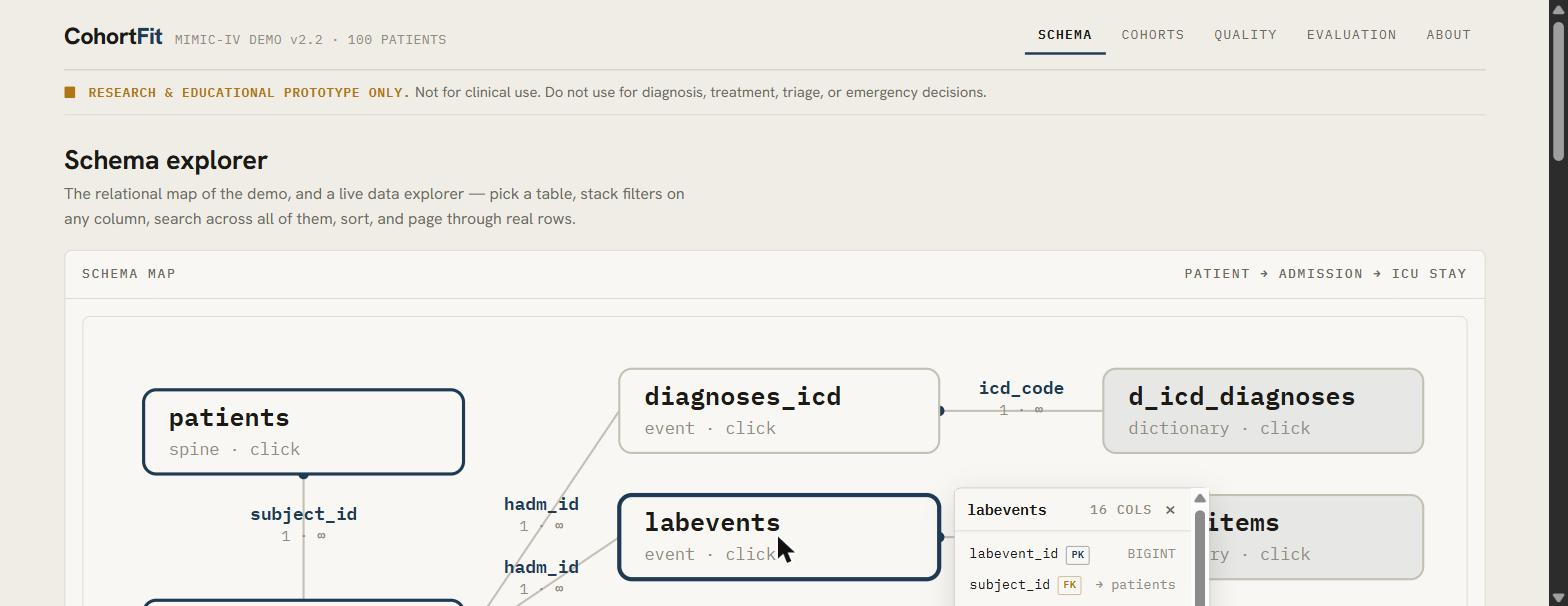
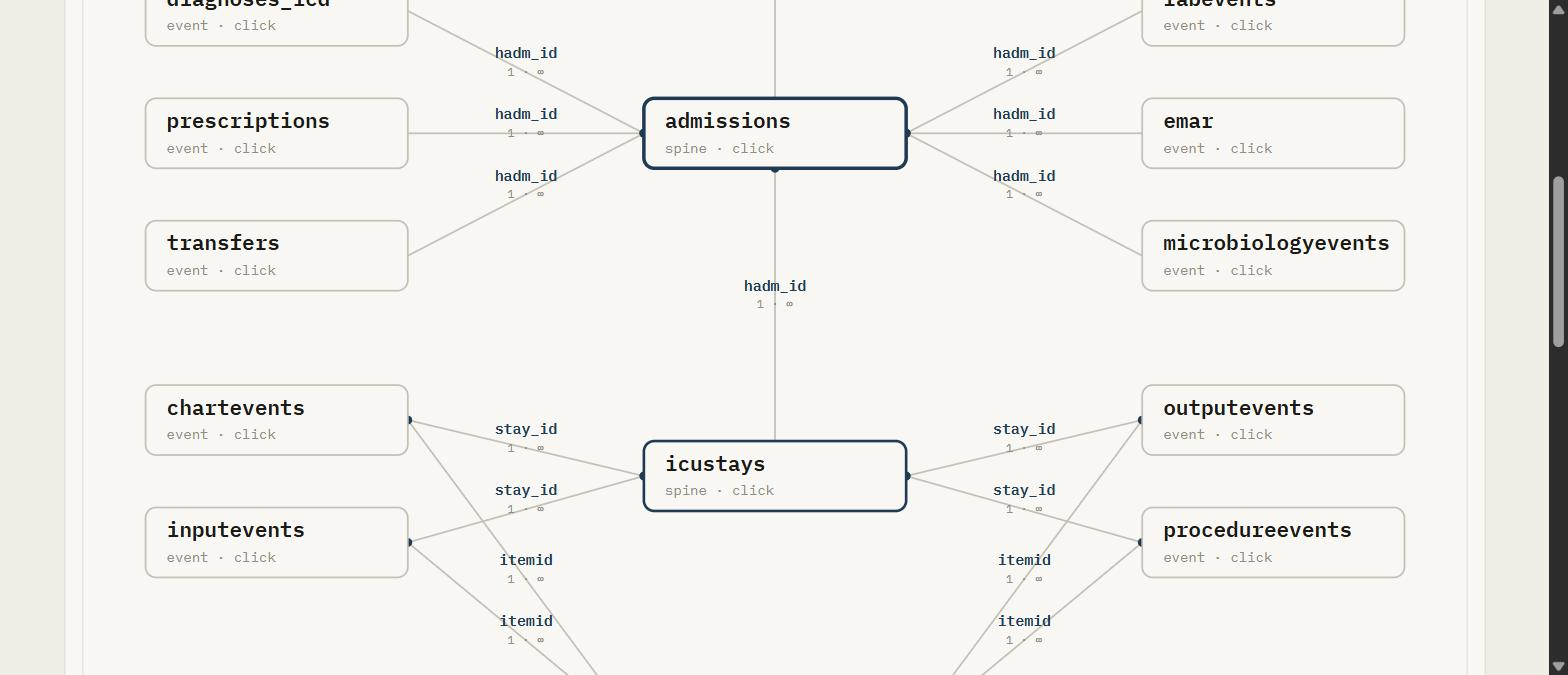
Schema map: star layout — patients/admissions/icustays centred, all FK edges attached
- radial layout: admissions is the central hub (hadm_id fans to diagnoses/prescriptions/
  transfers/labevents/emar/microbiologyevents), icustays the ICU hub (stay_id to
  chart/input/output/procedure events), dictionaries at the edges (icd_code/itemid)
- added the previously-missing FK edges (all ICU events -> d_items via itemid; more hosp events)
- edgePath now connects nearest sides by dominant direction; popover opens leftward for
  right-side boxes. Less clutter, every relationship visible
- verified in-browser (docs/ui-screenshots/app-schema-erd.jpg)

diff --git a/frontend/app/schema/Erd.tsx b/frontend/app/schema/Erd.tsx
@@ -11,49 +11,71 @@ type Edge = { from: string; to: string; col: string };
 export type ColumnInfo = { name: string; type: string };
 export type TableKeys = { pk: string[]; fk: { col: string; ref: string }[] };
 
-const VW = 648;
-const VH = 512;
-const W = 152;
+const VW = 780;
+const VH = 640;
+const W = 150;
 const H = 40;
 
+// Star layout: patients → admissions → icustays down the centre; hospital events fan
+// out from admissions, ICU events from icustays, dictionaries at the edges.
 const BOXES: Box[] = [
-  { id: "patients", label: "patients", x: 24, y: 30, kind: "spine" },
-  { id: "admissions", label: "admissions", x: 24, y: 130, kind: "spine" },
-  { id: "icustays", label: "icustays", x: 24, y: 300, kind: "spine" },
-  { id: "diagnoses_icd", label: "diagnoses_icd", x: 250, y: 20, kind: "fact" },
-  { id: "labevents", label: "labevents", x: 250, y: 80, kind: "fact" },
-  { id: "prescriptions", label: "prescriptions", x: 250, y: 140, kind: "fact" },
-  { id: "emar", label: "emar", x: 250, y: 200, kind: "fact" },
-  { id: "transfers", label: "transfers", x: 250, y: 260, kind: "fact" },
-  { id: "chartevents", label: "chartevents", x: 250, y: 330, kind: "fact" },
-  { id: "inputevents", label: "inputevents", x: 250, y: 390, kind: "fact" },
-  { id: "outputevents", label: "outputevents", x: 250, y: 450, kind: "fact" },
-  { id: "d_icd_diagnoses", label: "d_icd_diagnoses", x: 480, y: 20, kind: "dict" },
-  { id: "d_labitems", label: "d_labitems", x: 480, y: 80, kind: "dict" },
-  { id: "d_items", label: "d_items", x: 480, y: 360, kind: "dict" },
+  { id: "patients", label: "patients", x: 315, y: 24, kind: "spine" },
+  { id: "admissions", label: "admissions", x: 315, y: 220, kind: "spine" },
+  { id: "icustays", label: "icustays", x: 315, y: 416, kind: "spine" },
+  // hospital events — left of admissions
+  { id: "diagnoses_icd", label: "diagnoses_icd", x: 30, y: 150, kind: "fact" },
+  { id: "prescriptions", label: "prescriptions", x: 30, y: 220, kind: "fact" },
+  { id: "transfers", label: "transfers", x: 30, y: 290, kind: "fact" },
+  // hospital events — right of admissions
+  { id: "labevents", label: "labevents", x: 600, y: 150, kind: "fact" },
+  { id: "emar", label: "emar", x: 600, y: 220, kind: "fact" },
+  { id: "microbiologyevents", label: "microbiologyevents", x: 600, y: 290, kind: "fact" },
+  // ICU events — around icustays
+  { id: "chartevents", label: "chartevents", x: 30, y: 384, kind: "fact" },
+  { id: "inputevents", label: "inputevents", x: 30, y: 454, kind: "fact" },
+  { id: "outputevents", label: "outputevents", x: 600, y: 384, kind: "fact" },
+  { id: "procedureevents", label: "procedureevents", x: 600, y: 454, kind: "fact" },
+  // dictionaries — edges
+  { id: "d_icd_diagnoses", label: "d_icd_diagnoses", x: 30, y: 80, kind: "dict" },
+  { id: "d_labitems", label: "d_labitems", x: 600, y: 80, kind: "dict" },
+  { id: "d_items", label: "d_items", x: 315, y: 566, kind: "dict" },
 ];
 
 const EDGES: Edge[] = [
   { from: "patients", to: "admissions", col: "subject_id" },
   { from: "admissions", to: "icustays", col: "hadm_id" },
   { from: "admissions", to: "diagnoses_icd", col: "hadm_id" },
-  { from: "admissions", to: "labevents", col: "hadm_id" },
   { from: "admissions", to: "prescriptions", col: "hadm_id" },
-  { from: "admissions", to: "emar", col: "hadm_id" },
   { from: "admissions", to: "transfers", col: "hadm_id" },
+  { from: "admissions", to: "labevents", col: "hadm_id" },
+  { from: "admissions", to: "emar", col: "hadm_id" },
+  { from: "admissions", to: "microbiologyevents", col: "hadm_id" },
   { from: "icustays", to: "chartevents", col: "stay_id" },
   { from: "icustays", to: "inputevents", col: "stay_id" },
   { from: "icustays", to: "outputevents", col: "stay_id" },
+  { from: "icustays", to: "procedureevents", col: "stay_id" },
   { from: "diagnoses_icd", to: "d_icd_diagnoses", col: "icd_code" },
   { from: "labevents", to: "d_labitems", col: "itemid" },
   { from: "chartevents", to: "d_items", col: "itemid" },
+  { from: "inputevents", to: "d_items", col: "itemid" },
+  { from: "outputevents", to: "d_items", col: "itemid" },
+  { from: "procedureevents", to: "d_items", col: "itemid" },
 ];
 
 const byId = (id: string) => BOXES.find((b) => b.id === id)!;
 
+// Connect the nearest edges based on the dominant direction between box centres.
 function edgePath(a: Box, b: Box) {
-  if (Math.abs(a.x - b.x) < 8) return { x1: a.x + W / 2, y1: a.y + H, x2: b.x + W / 2, y2: b.y };
-  return { x1: a.x + W, y1: a.y + H / 2, x2: b.x, y2: b.y + H / 2 };
+  const acx = a.x + W / 2, acy = a.y + H / 2, bcx = b.x + W / 2, bcy = b.y + H / 2;
+  const dx = bcx - acx, dy = bcy - acy;
+  if (Math.abs(dx) > Math.abs(dy)) {
+    return dx > 0
+      ? { x1: a.x + W, y1: acy, x2: b.x, y2: bcy }
+      : { x1: a.x, y1: acy, x2: b.x + W, y2: bcy };
+  }
+  return dy > 0
+    ? { x1: acx, y1: a.y + H, x2: bcx, y2: b.y }
+    : { x1: acx, y1: a.y, x2: bcx, y2: b.y + H };
 }
 
 export function Erd({
@@ -75,10 +97,13 @@ export function Erd({
   const fkMap = new Map(keys.fk.map((f) => [f.col, f.ref]));
 
   // Popover placed by percentage of the viewBox so it tracks the responsive SVG.
-  const popStyle = openBox
+  // Right-half boxes open the popover leftward so it never overflows.
+  const onRight = !!openBox && openBox.x + W / 2 > VW / 2;
+  const popStyle: React.CSSProperties | undefined = openBox
     ? {
-        left: `${((openBox.x + W + 6) / VW) * 100}%`,
+        left: onRight ? `${((openBox.x - 6) / VW) * 100}%` : `${((openBox.x + W + 6) / VW) * 100}%`,
         top: `${(openBox.y / VH) * 100}%`,
+        transform: onRight ? "translateX(-100%)" : undefined,
       }
     : undefined;
 
